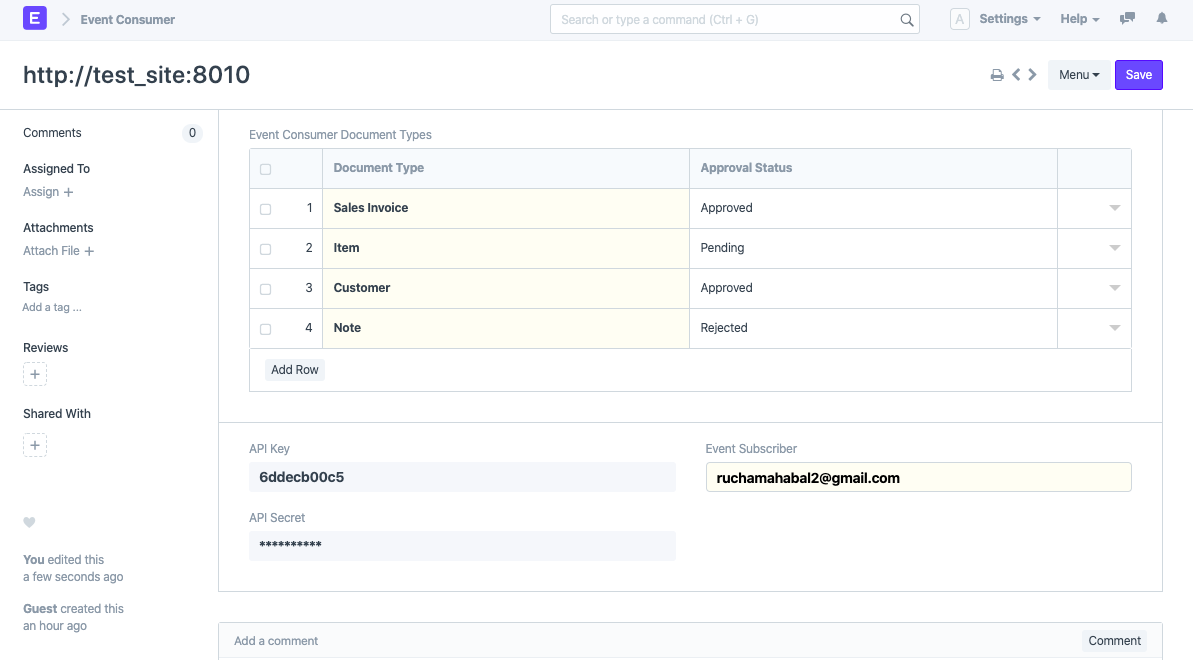
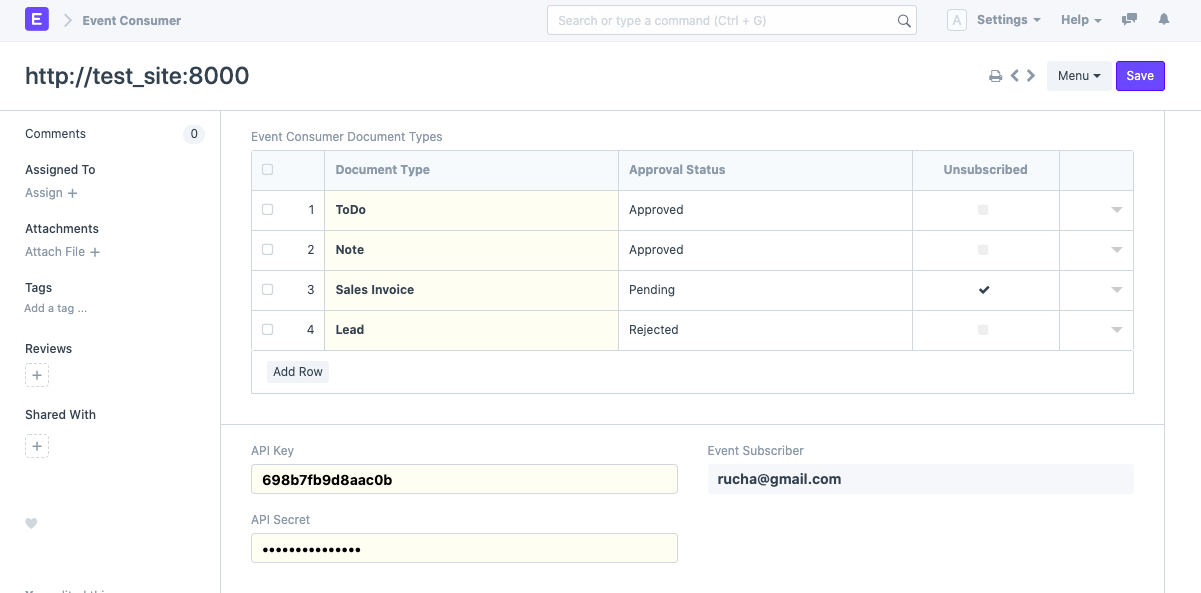
docs: Event streaming fixes (#146)
* docs: Event Streaming fixes

* chore: add a note for key updates

* fix: grammatical fixes

diff --git a/erpnext_documentation/www/docs/user/manual/en/automation/event_streaming.md b/erpnext_documentation/www/docs/user/manual/en/automation/event_streaming.md
@@ -11,24 +11,40 @@ To access Event Streaming, go to:
 > Home > Automation > Event Streaming
 
 ## 1. Prerequisites
-Before creating an Event Producer, a common user needs to be created on both the sites which will be used to access the site and will act as an Event Subscriber. Make sure the user has the necessary permissions for creation, updation, and deletion of the subscribed DocTypes.
+Before creating an Event Producer, a common user needs to be created on both the sites which will be used to access the site and will act as an Event Subscriber. Make sure the user is a System Manager and has the necessary permissions for creation, updation, and deletion of the subscribed DocTypes.
 
 ## 2. How to set up Event Streaming
 
-### 2.1 Create an Event Producer
+Let's take two sites for explaining the process. http://test_site:8000 (Consumer site) and http://test_site_producer:8000 (Producer site)
+
+### 2.1 Obtain the Event Subscriber's keys from the Producer Site
+
+1. On http://test_site_producer:8000 (producer site), go to the User list.
+2. Open the user document you are going to use as an Event Subscriber. Scroll down to the section labelled "API Access". In that section, generate keys for the user by clicking on **Generate Keys** button. You will get a prompt with the user secret, copy the user secret and save it with you. It will also generate an API key.
+
+### 2.2 Generate Keys for the Event Subscriber on the Consumer Site
+
+1. On http://test_site:8000 (consumer site), go to the User list and follow the same process specified in the previous step.
+
+### 2.3 Create an Event Producer on the Consumer Site
+
 1. The site which you want to subscribe to, is called as the Event Producer. Create an Event Producer document for the site you wish to get the updates from.
-2. Go to: **Home > Automation > Event Streaming > Event Producer**.
-3. Enter the site URL of the site you want to subscribe to, in the Producer URL field.
-4. Add all the Document Types you want to subscribe to, in the Event Configuration child table.
-5. If you want to have the created documents with the same name as it is on the remote Event Producer site, check the 'Use Same Name' checkbox in the child table against the required Document Type.
-6. Set the Event Subscriber field to a user that will be used to create the documents fetched from the Event Producer. You need to create the same user both ways, i.e on the Event Consumer as well as the Event Producer site before creating the Event Producer.
-7. Save.
-8. The API key and API secret are then set in the Event Producer document for Authentication.
+2. On http://test_site:8000 (consumer site), go to **Home > Automation > Event Streaming > Event Producer**.
+3. Enter the URL of the site you want to subscribe to (in this case http://test_site_producer:8000), in the Producer URL field.
+4. Add all the Document Types you want to subscribe to, in the Event Producer Document Types table.
+5. If you want to have the created documents with the same name as it is on the remote Event Producer site, check the 'Use Same Name' checkbox in the  table against the required Document Type.
+6. Set the Event Subscriber field to the user that will be used to create the documents fetched from the Event Producer. You need to create the same user both ways, i.e. on the Event Consumer as well as the Event Producer site before creating the Event Producer.
+7. Paste the API key and API Secret you generated in the first step (2.1) in the API key and API secret fields respectively.
+8. Save.
+9. After saving, an Event Consumer is created on the producer site (http://test_site_producer:8000). The keys of the user on the consumer site are automatically copied to the Event Consumer document on the producer site in this process.
 
     ![Event Producer](/docs/assets/img/automation/event-producer-doc.png)
 
-### 2.2 Approve Event Consumer on the Event Producer site
-1. After the Event Producer has been created, an Event Consumer automatically gets created on the other site. By default all the Subscribed Document Types have the status as 'Pending'. In order to enable the Event Consumer to consume the documents of these Document Types, their Status needs to be updated to 'Approved'.
+>**Note**: If at all the API Secret is changed for the users on any of these sites, you will have to manually update the keys in the Event Producer as well as the Event Consumer on both the sites.
+
+### 2.4 Approve Event Consumer on the Event Producer site
+
+1. After the Event Producer has been created, an Event Consumer automatically gets created on the producer site. By default, all the Subscribed Document Types have the status as 'Pending'. In order to enable the Event Consumer to consume the documents of these Document Types, their Status needs to be updated to 'Approved'.
 2. Go to: **Home > Automation > Event Streaming > Event Consumer**.
 3. Once you open the Event Consumer document you will see all the Document Types that the consumer has subscribed to. Change the status from 'Pending' to 'Approved' for all the Document Types that you want to approve to be consumed. You can change the status to 'Rejected' if you do not want the documents of that Document Type to be consumed.
 4. Save.
@@ -37,7 +53,7 @@ Before creating an Event Producer, a common user needs to be created on both the
 
 >**Note**: Document updates for Subscribed Document Types won't be synced unless they are Approved.
 
-### 2.3 Offline access with single site
+### 2.5 Offline access with single site
 If you have some places where internet connectivity is low, for example, a store in a remote area where sales invoices are generated and you want to sync these invoices from the store to the hosted account, you could setup offline syncing using the following steps:
 
 1. Set up an ERPNext local instance. You can refer [this guide](https://github.com/frappe/bench) for local setup.
@@ -48,8 +64,15 @@ If you have some places where internet connectivity is low, for example, a store
 
 ## 3. Features
 
-### 3.1 Event Update Log
-Event Update Log logs every create, update, and delete for documents that have consumers on the Event Producer site.
+
+### 3.1 Unsubscribe from the updates
+
+As an Event Consumer, if you wish to unsubscribe from the updates for any doctypes you had previously subscribed to, check unsubscribe against the doctype. You will not receive any more updates from the producer site for that particular doctype once you have unsubscribed.
+
+![Unsubscribe](/docs/assets/img/automation/unsubscribe-event.png)
+
+### 3.2 Event Update Log
+"Event Update Log" logs every create, update, and delete action for documents that have consumers on the Event Producer site.
 In order to view the Event Update Log:
 
 Go to: **Home > Automation > Event Streaming > Event Update Log**.
@@ -60,7 +83,7 @@ Go to: **Home > Automation > Event Streaming > Event Update Log**.
 
 ![Event Update Log](/docs/assets/img/automation/event-update-log-doc.png)
 
-### 3.2 Event Sync Log
+### 3.3 Event Sync Log
 Like the Update Log, Event Sync Log logs every document synced from the Event Producer on the Event Consumer site.
 In order to view the Event Sync Log:
 
@@ -89,13 +112,13 @@ A failed event generates a log doc with the above fields along with:
 - **Resync Button**: It also provides a 'Resync' button in order to resync the failed event.
     ![Event Failed](/docs/assets/img/automation/event-failed.png)
 
-### 3.3 Dependency Syncing
+### 3.4 Dependency Syncing
 Certain Document Types have dependencies. For example, before syncing a Sales Invoice, the Item and Customer need to be present in the current site. So, Item and Customer are dependencies for Sales Invoice. Event Streaming handles this by on-demand dependency syncing. Whenever any document is to be synced, it first checks whether the document has any dependencies (Link fields, Dynamic Link fields, Child Table fields, etc.). If that dependency is not fullfilled i.e. the dependent document (eg: Item) is not present on your consumer site, it will be synced first and then the Sales Invoice will be synced.
 
 For example: Sales Invoice syncing with Item dependency:
     ![Event Dependency](/docs/assets/img/automation/event-dependency-sync.gif)
 
-### 3.4 Naming Configuration
+### 3.5 Naming Configuration
 Check the 'Use Same Name' checkbox to let the documents have same name on both Event Producer and Event Consumer sites. If this is not checked, then the document will be created using the naming conventions of the current site.
 
 ![Use Same Name Config](/docs/assets/img/automation/event-use-same-name.png)
@@ -104,7 +127,7 @@ Check the 'Use Same Name' checkbox to let the documents have same name on both E
 
 ![Subscribed Document](/docs/assets/img/automation/event-subscribed-doc.png)
 
-### 3.5 Mapping Configuration
+### 3.6 Mapping Configuration
 
 If you want to stream documents between an ERPNext instance and another Frappe app for a particular Document Type with same or different structures, or if field names are different in both the sites, you can use Event Streaming with Mapping Configuration.
 
@@ -114,7 +137,7 @@ To access Document Type Mapping, go to:
 
 > Home > Automation > Event Streaming > Document Type Mapping.
 
-#### 3.5.1 Mapping for DocTypes with similar structure
+#### 3.6.1 Mapping for DocTypes with similar structure
 
 - **Mapping Name**: Give a unique name to the mapping
 - **Local Document Type**: The Document Type in your current site
@@ -127,14 +150,14 @@ In the Field Mapping child table:
 
 ![Document Type Mapping](/docs/assets/img/automation/event-field-mapping.png)
 
-#### 3.5.2 Default value for some field
+#### 3.6.2 Default value for some field
 
 If your field is not mapped to any other remote fieldname and you always want the field to have the same value, set the set the same in the default value field. Event if you have set the remote fieldname, in case during the sync, remote field's value is not found and if the "Default Value" has been specified, it will be set.
 
 ![Child Table Mapping Link](/docs/assets/img/automation/default.png)
 
 
-#### 3.5.3 Mapping for DocTypes having child tables
+#### 3.6.3 Mapping for DocTypes having child tables
 
 If the field you are trying to map is a child table, you need to create another Document Type Mapping for the child table fields.
 
@@ -145,7 +168,7 @@ If the field you are trying to map is a child table, you need to create another 
 
 ![Child Table Mapping Link](/docs/assets/img/automation/event-map-is-child-table.png)
 
-#### 3.5.4 Mapping for DocTypes having dependencies (Link, Dynamic Link fields)
+#### 3.6.4 Mapping for DocTypes having dependencies (Link, Dynamic Link fields)
 
 If the DocTypes you are trying to map have any kind of dependencies like Link or Dynamic Link fields, you need to set up another Document Type Mapping for syncing the dependencies.
 
